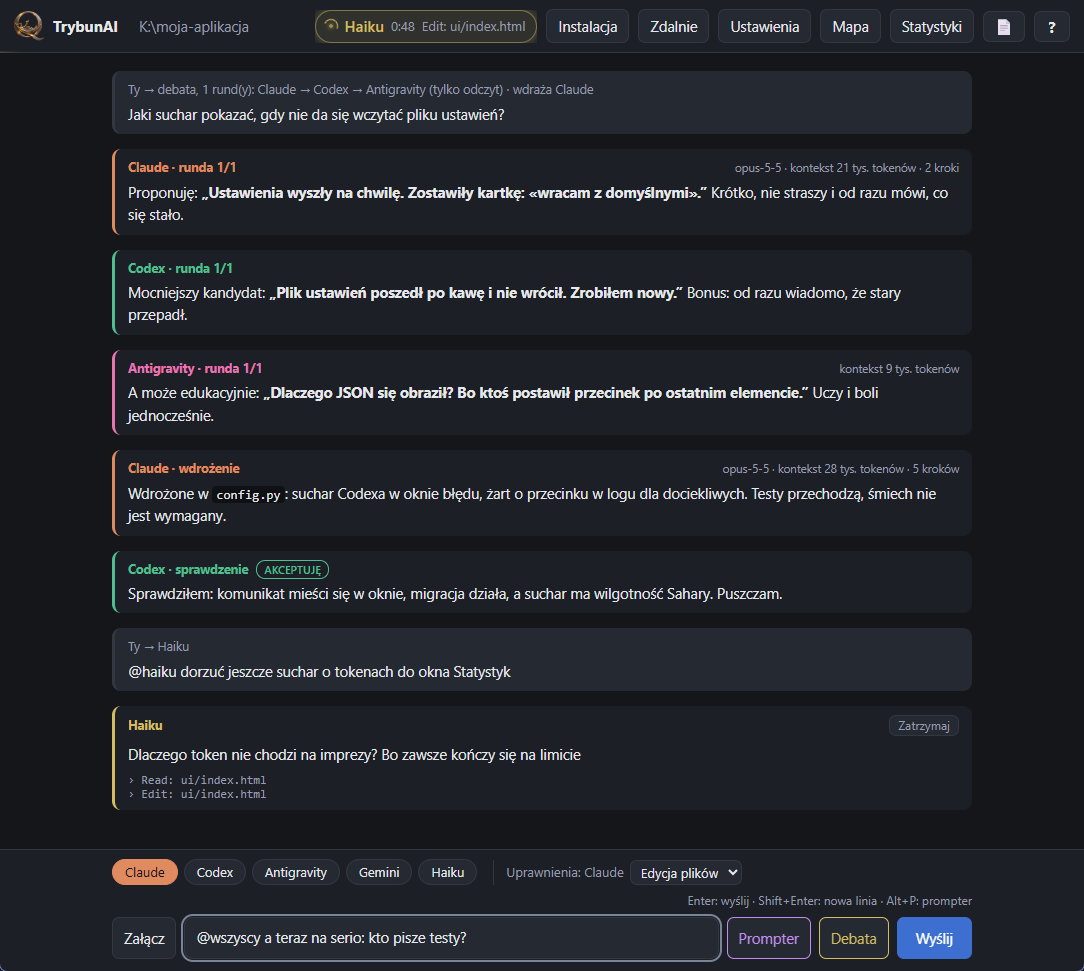
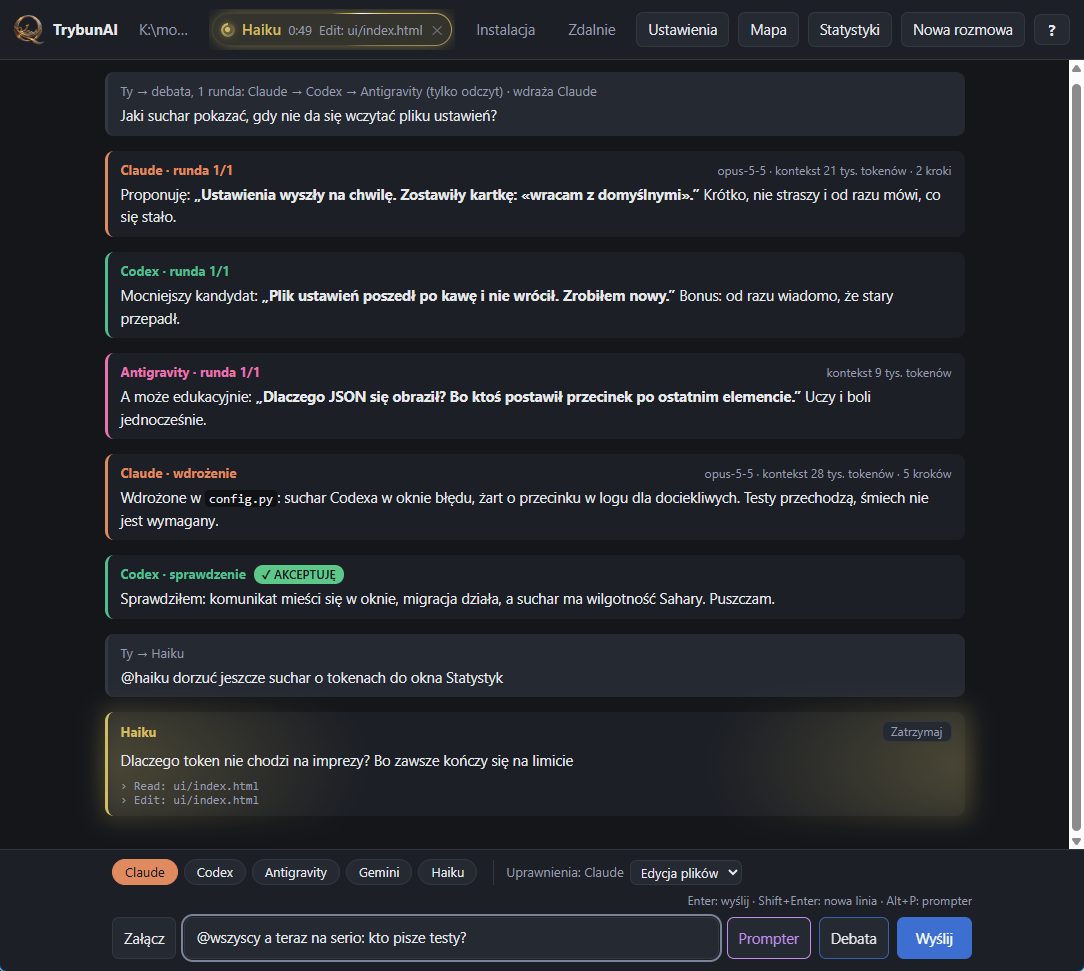
1.0.22: pigulka pracy wraca z animacja, werdykty z ikonami, porzadki w interfejsie

diff --git a/ui/index.html b/ui/index.html
@@ -6,7 +6,8 @@
 <title>TrybunAI</title>
 <style>
 :root{--bg:#14161a;--panel:#1c1f25;--panel2:#252932;--line:#323742;--text:#e6e8ec;--dim:#969cab;
---claude:#e08a5f;--codex:#4fbf8f;--gemini:#6ea2f5;--prompter:#c18df0;--haiku:#d3bd63;--antigravity:#e874b0;--danger:#e5676b}
+--claude:#e08a5f;--codex:#4fbf8f;--gemini:#6ea2f5;--prompter:#c18df0;--haiku:#d3bd63;--antigravity:#e874b0;--danger:#e5676b;
+--accent:#3d6fd1;--ok:#5cc98a;--warn:#e8a93a;--on-status:#14161a}
 *{box-sizing:border-box}
 html,body{height:100%;margin:0}
 body{background:var(--bg);color:var(--text);font:14.5px/1.55 "Segoe UI",system-ui,sans-serif;display:flex;flex-direction:column}
@@ -18,6 +19,45 @@ select,input[type=text]{background:var(--panel2);border:1px solid var(--line);bo
 :focus-visible{outline:2px solid #7a8499;outline-offset:1px}
 header{display:flex;gap:9px;align-items:center;padding:9px 14px;background:var(--panel);border-bottom:1px solid var(--line)}
 header b{font-size:15px}
+#working{display:flex;gap:7px;min-width:0;flex-shrink:1;overflow:hidden;padding:4px 3px}
+#working:empty{display:none}
+@property --orbit{syntax:"<angle>";inherits:false;initial-value:0deg}
+.wk{--c:var(--dim);position:relative;display:flex;align-items:center;flex-shrink:1;min-width:0;max-width:340px;
+  border-radius:999px;border:1.5px solid transparent;overflow:hidden;
+  background:linear-gradient(color-mix(in srgb,var(--c) 13%,var(--panel)),color-mix(in srgb,var(--c) 13%,var(--panel))) padding-box,
+    conic-gradient(from var(--orbit),color-mix(in srgb,var(--c) 22%,transparent),var(--c) 50deg,#fff 62deg,var(--c) 74deg,
+      color-mix(in srgb,var(--c) 22%,transparent) 140deg,color-mix(in srgb,var(--c) 22%,transparent)) border-box;
+  box-shadow:0 0 18px -6px var(--c);animation:wkin .5s cubic-bezier(.2,.9,.3,1.35) both,wkorbit 2.4s linear infinite}
+@keyframes wkorbit{to{--orbit:360deg}}
+@keyframes wkin{from{opacity:0;transform:translateY(-9px) scale(.8);filter:blur(5px);box-shadow:0 0 30px 6px var(--c)}}
+.wk.out{animation:wkout .3s ease-in forwards}
+@keyframes wkout{to{opacity:0;transform:scale(.8);filter:blur(4px)}}
+.wk::after{content:"";position:absolute;inset:0;pointer-events:none;transform:translateX(-110%);
+  background:linear-gradient(105deg,transparent 30%,color-mix(in srgb,var(--c) 32%,transparent) 50%,transparent 70%);
+  animation:wkscan 2.8s ease-in-out .6s infinite}
+@keyframes wkscan{to{transform:translateX(110%)}}
+.wk button{background:none;border:0;border-radius:999px;color:var(--text);font-size:13px}
+.wkgo{display:flex;align-items:center;gap:7px;min-width:0;padding:4px 4px 4px 8px;white-space:nowrap}
+.wkstop{flex:none;padding:3px 9px 3px 5px;color:var(--dim)!important;opacity:.7}
+.wkstop:hover{opacity:1;color:var(--danger)!important}
+.wk .orb{position:relative;width:14px;height:14px;flex:none}
+.wk .orb::before{content:"";position:absolute;inset:0;border-radius:50%;background:conic-gradient(transparent,var(--c));
+  -webkit-mask:radial-gradient(circle,transparent 4.4px,#000 5px);mask:radial-gradient(circle,transparent 4.4px,#000 5px);
+  animation:wkspin .8s linear infinite}
+.wk .orb::after{content:"";position:absolute;inset:4.5px;border-radius:50%;background:var(--c);box-shadow:0 0 8px 2px var(--c);
+  animation:wkpulse 1.2s ease-in-out infinite}
+@keyframes wkspin{to{transform:rotate(360deg)}}
+@keyframes wkpulse{50%{transform:scale(.55);opacity:.6}}
+.wk b{color:var(--c);font-weight:600}
+.wk .tm{font-variant-numeric:tabular-nums;color:var(--dim)}
+.wk .ac{color:var(--dim);overflow:hidden;text-overflow:ellipsis;min-width:0}
+header button{flex-shrink:0;white-space:nowrap}
+header #project{flex-shrink:1}
+#working.many .ac,#working.many .tm{display:none}
+#working.many .wkstop{display:none}
+#working.many .wk:hover .wkstop,#working.many .wk:focus-within .wkstop{display:block}
+#working.many .wk{flex-shrink:0}
+@media (prefers-reduced-motion:reduce){.wk,.wk::after,.wk .orb::before,.wk .orb::after{animation:none}}
 @keyframes bubbleGlow{from{opacity:.3;transform:scale(.995)}to{opacity:.85;transform:scale(1.012)}}
 #statsimport{color:var(--dim);font-size:13px;margin:-4px 0 10px}
 #statsimport:empty{display:none}
@@ -37,7 +77,7 @@ header img{height:30px;width:30px}
 @media (prefers-reduced-motion:reduce){.msg.working::before{animation:none;opacity:.55}}
 .msg.user{background:var(--panel2)}
 .msg.claude{border-left-color:var(--claude)}.msg.codex{border-left-color:var(--codex)}.msg.gemini{border-left-color:var(--gemini)}.msg.haiku{border-left-color:var(--haiku)}.msg.antigravity{border-left-color:var(--antigravity)}
-.who{display:flex;gap:8px;align-items:center;font-size:12.5px;color:var(--dim);margin-bottom:3px}
+.who{display:flex;gap:8px;align-items:center;font-size:13px;color:var(--dim);margin-bottom:3px}
 .who strong.claude{color:var(--claude)}.who strong.codex{color:var(--codex)}.who strong.gemini{color:var(--gemini)}.who strong.haiku{color:var(--haiku)}.who strong.antigravity{color:var(--antigravity)}
 .who .sp{flex:1}
 .who button{padding:0 8px;font-size:12px}
@@ -53,38 +93,40 @@ header img{height:30px;width:30px}
 .code pre code{padding:0;white-space:pre}
 .code button{position:absolute;top:5px;right:5px;padding:0 7px;font-size:12px}
 .tbl{overflow-x:auto}.body table{border-collapse:collapse;margin:.5em 0}.body td,.body th{border:1px solid var(--line);padding:3px 8px}
-.err{color:var(--danger);white-space:pre-wrap;font-size:13.5px}
-.note{color:var(--dim);font-size:12.5px;font-style:italic}
+.err{color:var(--danger);white-space:pre-wrap;font-size:14.5px}
+.note{color:var(--dim);font-size:13px;font-style:italic}
 .acts{font:12px Consolas,monospace;color:var(--dim);margin-top:5px}
-.usage{margin-left:auto;font-size:11.5px}.usage.big{color:var(--haiku)}
-.verdict{font-size:11px;font-weight:600;padding:0 7px;border-radius:9px;border:1px solid}
-.verdict.accept{color:var(--codex)}.verdict.remarks{color:var(--haiku)}.verdict.unverified{color:var(--dim)}
+.usage{margin-left:auto;font-size:12px}.usage.big{color:var(--haiku)}
+.verdict{font-size:12px;font-weight:600;padding:0 8px;border-radius:9px;color:var(--on-status)}
+.verdict.accept{background:var(--ok)}.verdict.remarks{background:var(--warn)}
+.verdict.unverified{background:var(--panel2);color:var(--dim);border:1px solid var(--line)}
 .needcard{margin-top:8px;padding:8px 11px;border:1px solid var(--prompter);border-radius:8px;font-size:13px}
 .needcard ul{margin:4px 0 7px;padding-left:20px;font:12px Consolas,monospace;color:var(--dim)}
-.needcard button{border-color:var(--prompter);color:var(--prompter);font-size:12.5px}
-.propcard{margin-top:10px;padding:10px 13px;border:1px solid color-mix(in srgb,var(--haiku) 55%,transparent);border-radius:9px;
-  background:color-mix(in srgb,var(--haiku) 6%,transparent)}
-.propcard h4{margin:0 0 6px;font-size:13.5px;font-weight:600}
+.needcard button{border-color:var(--prompter);color:var(--prompter);font-size:13px}
+.propcard{margin-top:10px;padding:10px 13px;border:1px solid color-mix(in srgb,var(--accent) 65%,transparent);border-radius:9px;
+  background:color-mix(in srgb,var(--accent) 7%,transparent)}
+.propcard h4{margin:0 0 6px;font-size:14.5px;font-weight:600}
 .propcard h4 span{color:var(--dim);font-weight:400}
 .propcard label{display:flex;gap:9px;align-items:flex-start;padding:4px 2px;cursor:pointer;border-radius:5px}
 .propcard label:hover{background:#ffffff08}
 .propcard input[type=checkbox]{margin-top:4px;flex:none}
 .propcard .no{color:var(--dim);font-size:12px;margin-left:4px}
-.propcard .sporne{color:var(--haiku);font-size:12px}
+.propcard .sporne{color:var(--warn);font-size:12px}
 .propcard textarea{width:100%;min-height:44px;margin:8px 0;resize:vertical;font:inherit;font-size:13px;
   background:var(--panel2);color:var(--text);border:1px solid var(--line);border-radius:7px;padding:6px 8px;box-sizing:border-box}
 .propcard .row{display:flex;gap:8px;align-items:center;flex-wrap:wrap}
-.propcard .go{background:#3d6fd1;border-color:#3d6fd1;color:#fff}
+.propcard .go{background:var(--accent);border-color:var(--accent);color:#fff}
 .propcard .go:disabled{opacity:.5}
 .propcard .links{margin-left:auto;font-size:12px;color:var(--dim)}
-.propcard .links a{color:var(--dim);cursor:pointer;text-decoration:underline}
+.linkbtn{background:none;border:0;padding:0;color:var(--dim);text-decoration:underline;font:inherit;cursor:pointer}
+.linkbtn:hover{color:var(--text)}
 .propcard ol{margin:4px 0 6px;padding-left:22px}
 .propcard li.off{color:var(--dim);text-decoration:line-through}
-.propcard .done{color:var(--dim);font-size:12.5px}
+.propcard .done{color:var(--dim);font-size:13px}
 .needcard small{color:var(--dim);margin-left:8px;font-size:12px}
-.ctxwarn{margin-top:7px;padding:6px 9px;border:1px solid var(--haiku);border-radius:7px;font-size:12.5px;color:var(--haiku);display:flex;gap:10px;align-items:center}
+.ctxwarn{margin-top:7px;padding:6px 9px;border:1px solid var(--haiku);border-radius:7px;font-size:13px;color:var(--haiku);display:flex;gap:10px;align-items:center}
 .ctxwarn button{font-size:12px;padding:1px 9px;white-space:nowrap}
-#debatebtn{border-color:var(--haiku);color:var(--haiku);height:42px}
+#debatebtn{border-color:color-mix(in srgb,var(--accent) 75%,var(--line));height:42px}
 #debdlg textarea{width:100%;box-sizing:border-box;min-height:70px;max-height:30vh;resize:vertical}
 #debdlg input[type=number]{width:60px}
 #debdlg select{min-width:150px}
@@ -114,16 +156,16 @@ footer{background:var(--panel);border-top:1px solid var(--line);padding:9px 14px
 #setuplog:empty{display:none}
 .gallery{display:flex;flex-wrap:wrap;gap:8px;margin-top:8px}
 .gallery img{max-width:min(100%,420px);max-height:320px;border-radius:7px;border:1px solid var(--line);cursor:zoom-in}
-.file{font-size:12.5px;color:var(--dim);margin-top:5px}
+.file{font-size:13px;color:var(--dim);margin-top:5px}
 #files{display:flex;flex-wrap:wrap;gap:6px;margin-bottom:7px}
 #files:empty{display:none}
-#files button{font-size:12.5px;padding:1px 9px}
+#files button{font-size:13px;padding:1px 9px}
 #attach{height:42px}
 #hint{color:var(--dim);font-size:12px;margin-left:auto}
 #row{display:flex;gap:8px;align-items:flex-end}
 textarea{flex:1;background:var(--panel2);border:1px solid var(--line);border-radius:9px;padding:8px 11px;resize:none;min-height:42px;max-height:40vh}
 #refine{border-color:var(--prompter);color:var(--prompter);height:42px}
-#sendbtn{background:#3d6fd1;border-color:#3d6fd1;color:#fff;height:42px;padding:0 18px}
+#sendbtn{background:var(--accent);border-color:var(--accent);color:#fff;height:42px;padding:0 18px}
 dialog{background:var(--panel);color:var(--text);border:1px solid var(--line);border-radius:11px;width:430px}
 dialog::backdrop{background:#0009}
 dialog h3{margin:0 0 12px}
@@ -139,19 +181,21 @@ dialog menu{display:flex;justify-content:flex-end;padding:0;margin:14px 0 0}
 .modelpick select{width:230px}.modelpick input{width:120px}
 .modelpick:has(input:not([hidden])) select{width:104px}
 #dlg{overflow-x:hidden}
-#modelsrefresh{font-size:12.5px;margin:2px 0}
+#modelsrefresh{font-size:13px;margin:2px 0}
 dialog label.rolerow{margin:-4px 0 12px;color:var(--dim);font-size:13px}
 dialog input.rolepick{width:340px}
 #aboutdlg{width:560px;max-height:90vh}
 #aboutdlg .abouthead{display:flex;gap:14px;align-items:center;margin-bottom:6px}
 #aboutdlg .abouthead h3{margin:0 0 3px}#aboutdlg .dim{color:var(--dim);font-size:13px}
 #aboutdlg a{color:var(--gemini)}
-#aboutdlg .help{font-size:13.5px;line-height:1.5}#aboutdlg .help h4{margin:12px 0 4px}
+#aboutdlg .help{font-size:14.5px;line-height:1.5}#aboutdlg .help h4{margin:12px 0 4px}
 #aboutdlg .help p{margin:5px 0}
 #updstate{margin:3px 0 6px}#updstate.new{color:var(--codex);font-weight:600}
-#updnotes{white-space:pre-wrap;font-size:12.5px;color:var(--dim);max-height:130px;overflow-y:auto;margin-bottom:7px}
+#updnotes{white-space:pre-wrap;font-size:13px;color:var(--dim);max-height:130px;overflow-y:auto;margin-bottom:7px}
 #updnotes:empty{display:none}
-#updgo{background:#3d6fd1;border-color:#3d6fd1;color:#fff}
+#updgo{background:var(--accent);border-color:var(--accent);color:#fff}
+button.ghost{background:transparent;border-color:transparent;color:var(--dim)}
+button.ghost:hover{color:var(--text);border-color:var(--line)}
 .iconbtn{min-width:36px;padding-left:9px;padding-right:9px;font-size:16px;line-height:1.2;position:relative}
 #aboutbtn{font-weight:700}
 #newdot{position:absolute;top:3px;right:3px;width:8px;height:8px;border-radius:50%;background:var(--codex)}
@@ -174,7 +218,7 @@ dialog input.rolepick{width:340px}
 #statschart .hit{fill:transparent;cursor:default}
 #statschart .hit:hover{fill:#ffffff0c}
 #statstip{position:absolute;pointer-events:none;background:var(--panel2);border:1px solid var(--line);border-radius:8px;
-  padding:7px 10px;font-size:12.5px;min-width:170px;box-shadow:0 6px 18px #0007;z-index:2}
+  padding:7px 10px;font-size:13px;min-width:170px;box-shadow:0 6px 18px #0007;z-index:2}
 #statstip .row{display:flex;align-items:center;gap:7px;justify-content:space-between}
 #statstip .row span:first-child{display:flex;align-items:center;gap:6px;color:var(--dim)}
 #statstip b{font-variant-numeric:tabular-nums;font-weight:600}
@@ -188,19 +232,19 @@ dialog input.rolepick{width:340px}
 #statstable td:first-child .sw{margin-right:7px;vertical-align:-1px}
 #statstable tr.sum td{font-weight:600;border-bottom:0}
 #statsempty{color:var(--dim);text-align:center;padding:40px 10px}
-#maplog{font-size:12.5px;color:var(--dim);max-height:20vh;overflow:auto}#maplog div{margin:2px 0}
+#maplog{font-size:13px;color:var(--dim);max-height:20vh;overflow:auto}#maplog div{margin:2px 0}
 #mapstate,#startstate{font-size:13px;margin:4px 0}
 dialog input#mapexclude{width:250px}
-#memory{width:100%;box-sizing:border-box;min-height:110px;max-height:35vh;resize:vertical;font-size:12.5px;margin-top:4px}
+#memory{width:100%;box-sizing:border-box;min-height:110px;max-height:35vh;resize:vertical;font-size:13px;margin-top:4px}
 #limits .acct{margin:8px 0 10px}
-#limits .acct b{font-size:14px}#limits .plan{color:var(--dim);font-size:13px;margin-left:6px}
-#limits .win{margin:5px 0 0;font-size:12.5px}
+#limits .acct b{font-size:14.5px}#limits .plan{color:var(--dim);font-size:13px;margin-left:6px}
+#limits .win{margin:5px 0 0;font-size:13px}
 #limits .win .top{display:flex;justify-content:space-between;gap:10px}
 #limits .barl{height:6px;background:var(--panel2);border-radius:3px;overflow:hidden;margin-top:3px}
 #limits .barl i{display:block;height:100%;background:var(--codex)}
 #limits .barl i.mid{background:var(--haiku)}#limits .barl i.high{background:var(--danger)}
 #limits small{margin-top:3px}
-#limitsrefresh{margin:2px 0 8px;font-size:12.5px}
+#limitsrefresh{margin:2px 0 8px;font-size:13px}
 #remotebtn.connecting{border-color:var(--haiku);color:var(--haiku)}
 #remotebtn.connected{border-color:var(--codex);color:var(--codex)}
 #toast{position:fixed;left:50%;top:58px;transform:translateX(-50%);background:#4b2326;border:1px solid var(--danger);padding:6px 14px;border-radius:8px;display:none;max-width:80%;z-index:3}
@@ -211,12 +255,13 @@ dialog input#mapexclude{width:250px}
   <img class="logo" alt="" width="30" height="30">
   <b>TrybunAI</b>
   <button id="project" title="Zmień folder projektu"></button>
-  <button id="setupbtn" title="Zainstaluj i zaloguj brakujące CLI">Instalacja</button>
-  <button id="remotebtn" title="Steruj Claude na tym komputerze z aplikacji Claude">Zdalnie</button>
+  <div id="working" aria-live="polite"></div>
+  <button id="setupbtn" class="ghost" title="Zainstaluj i zaloguj brakujące CLI">Instalacja</button>
+  <button id="remotebtn" class="ghost" title="Steruj Claude na tym komputerze z aplikacji Claude">Zdalnie</button>
   <button id="settings">Ustawienia</button>
   <button id="mapbtn" title="Mapa projektu: krótkie notatki o kodzie, od których modele zaczynają">Mapa</button>
   <button id="statsbtn" title="Zużycie tokenów w czasie, z podziałem na modele">Statystyki</button>
-  <button id="newchat" class="iconbtn" title="Nowa rozmowa (zapisuje stan do pamięci projektu)" aria-label="Nowa rozmowa">📄</button>
+  <button id="newchat" title="Archiwizuje czat i zaczyna nowy (najpierw zapisuje stan do pamięci projektu)">Nowa rozmowa</button>
   <button id="aboutbtn" class="iconbtn" title="O programie i aktualizacje" aria-label="O programie">?<span id="newdot" hidden></span></button>
 </header>
 <div id="toast" role="alert"></div>
@@ -435,12 +480,13 @@ function label(agent, turn) {
   const s = document.createElement("strong");
   s.className = agent; s.textContent = S.agents[agent].label + (turn ? " · " + turn : ""); return s;
 }
+const rounds = n => n === 1 ? "runda" : (n % 10 >= 2 && n % 10 <= 4 && !(n % 100 >= 12 && n % 100 <= 14)) ? "rundy" : "rund";
 function userBubble(msg) {
   const span = document.createElement("span");
   const names = msg.targets.map(t => S.agents[t].label).join(", ");
   const order = msg.targets.map(t => S.agents[t].label).join(" → ");
   span.textContent = msg.debate
-    ? `Ty → debata, ${msg.debate} rund(y): ${order} (tylko odczyt)` +
+    ? `Ty → debata, ${msg.debate} ${rounds(msg.debate)}: ${order} (tylko odczyt)` +
       (msg.implementer ? ` · wdraża ${S.agents[msg.implementer].label}` : "")
     : "Ty → " + names + (msg.grant ? ` (jednorazowo: ${MODE_TEXT[msg.grant]})` : "");
   const parts = bubble("user", span);
@@ -559,8 +605,8 @@ function proposalCard(msg) {
   row.append(go, skip);
   if (items.length > 1) {
     const links = document.createElement("span"); links.className = "links";
-    const all = document.createElement("a"); all.textContent = "zaznacz wszystkie";
-    const none = document.createElement("a"); none.textContent = "odznacz";
+    const all = document.createElement("button"); all.type = "button"; all.className = "linkbtn"; all.textContent = "zaznacz wszystkie";
+    const none = document.createElement("button"); none.type = "button"; none.className = "linkbtn"; none.textContent = "odznacz";
     all.onclick = () => { boxes.forEach(b => b.checked = true); refresh(); };
     none.onclick = () => { boxes.forEach(b => b.checked = false); refresh(); };
     links.append(all, " · ", none); row.append(links);
@@ -568,7 +614,7 @@ function proposalCard(msg) {
   c.append(note, row); refresh();
   return c;
 }
-const VERDICT_TEXT = {accept: "AKCEPTUJĘ", remarks: "UWAGI", unverified: "NIE MÓGŁ SPRAWDZIĆ"};
+const VERDICT_TEXT = {accept: "✓ AKCEPTUJĘ", remarks: "! UWAGI", unverified: "? NIE MÓGŁ SPRAWDZIĆ"};
 function addVerdict(parts, msg) {
   if (!msg.verdict) return;
   const s = document.createElement("span"); s.className = "verdict " + msg.verdict;
@@ -653,16 +699,49 @@ function drawChips() {
   }
 }
 
-// ---- model activity glow ---------------------------------------------------
-const working = new Map();  // run id -> agent id
-function workStart(key, agent, message) {
-  working.set(key, {agent, message});
+// ---- model activity: glow on the bubble, pill on the top bar ------------------
+const working = new Map();  // run id -> {agent, message, pill, started, time, act}
+let workTimer = null;
+const clock = sec => `${Math.floor(sec / 60)}:${String(sec % 60).padStart(2, "0")}`;
+function workStart(key, agent, message, {name, target, stop} = {}) {
   if (message) { message.style.setProperty("--work-color", `var(--${agent})`); message.classList.add("working"); }
+  const pill = document.createElement("div"); pill.className = "wk"; pill.style.setProperty("--c", `var(--${agent})`);
+  const go = document.createElement("button"); go.type = "button"; go.className = "wkgo";
+  go.title = `${name} pracuje. Kliknij, żeby przewinąć do odpowiedzi.`;
+  const orb = document.createElement("span"); orb.className = "orb";
+  const who = document.createElement("b"); who.textContent = name;
+  const time = document.createElement("span"); time.className = "tm"; time.textContent = "0:00";
+  const act = document.createElement("span"); act.className = "ac"; act.textContent = "myśli…";
+  go.append(orb, who, time, act);
+  go.onclick = () => (target || message)?.scrollIntoView({behavior: "smooth", block: "end"});
+  pill.append(go);
+  if (stop) {
+    const x = document.createElement("button"); x.type = "button"; x.className = "wkstop"; x.textContent = "✕";
+    x.title = `Zatrzymaj: ${name}`; x.setAttribute("aria-label", x.title); x.onclick = stop; pill.append(x);
+  }
+  $("working").append(pill);
+  working.set(key, {agent, message, pill, started: Date.now(), time, act, go, name});
+  drawWorking();
+}
+function workAct(key, text) {
+  const w = working.get(key); if (!w) return;
+  w.act.textContent = text; w.go.title = `${w.name}: ${text}`;
 }
 function workEnd(key) {
-  const run = working.get(key); if (!run) return;
+  const w = working.get(key); if (!w) return;
   working.delete(key);
-  run.message?.classList.remove("working");
+  w.message?.classList.remove("working");
+  w.pill.classList.add("out"); setTimeout(() => w.pill.remove(), 300);
+  drawWorking();
+}
+function drawWorking() {
+  $("working").classList.toggle("many", working.size > 1);
+  if (working.size && !workTimer) workTimer = setInterval(tickWorking, 1000);
+  if (!working.size && workTimer) { clearInterval(workTimer); workTimer = null; }
+  tickWorking();
+}
+function tickWorking() {
+  for (const w of working.values()) w.time.textContent = clock(Math.floor((Date.now() - w.started) / 1000));
 }
 
 window.onEvents = events => {
@@ -678,14 +757,16 @@ window.onEvents = events => {
       const acts = document.createElement("div"); acts.className = "acts";
       parts.b.append(text, acts);
       runs.set(e.id, {parts, st, text, acts, buf: ""});
-      workStart(e.id, e.agent, parts.m);
+      workStart(e.id, e.agent, parts.m, {name: S.agents[e.agent].label, stop: () => api.stop(e.agent)});
     } else if (e.t === "delta") {
       const r = runs.get(e.id); if (!r) continue;
       r.buf += e.text; r.text.innerHTML = markdown(r.buf);
       r.text.classList.remove("typing");
+      workAct(e.id, "pisze odpowiedź…");
     } else if (e.t === "activity") {
       const r = runs.get(e.id); if (!r) continue;
       addLine(r.acts, "", "› " + e.text);
+      workAct(e.id, e.text);
       while (r.acts.children.length > 6) r.acts.firstChild.remove();
     } else if (e.t === "end") {
       const r = runs.get(e.id); if (!r) continue;
@@ -709,6 +790,7 @@ window.onEvents = events => {
       refreshSetup();
     } else if (e.t === "p_start") {
       setPrompter(true, `Prompter (${S.agents[e.engine].label}) pracuje…`);
+      workStart("prompter", "prompter", null, {name: "Prompter", target: $("input"), stop: () => api.stop("prompter")});
     } else if (e.t === "p_end") {
       workEnd("prompter");
       if (e.ok) {
@@ -1022,7 +1104,7 @@ function showLogo() {
 async function reload() { S = await api.snapshot(); render(); drawRemote(); }
 function drawRemote() {
   const r = S.remote, on = r.state !== "off";
-  $("remotebtn").className = r.state;
+  $("remotebtn").className = "ghost " + (r.state || "");
   $("remotebtn").textContent = r.state === "connected" ? "Zdalnie: wł." : r.state === "connecting" ? "Zdalnie…" : "Zdalnie";
   $("remotestate").textContent = {off: "Wyłączone.", connecting: "Łączenie…", connected: "Połączono. Otwórz aplikację Claude i napisz."}[r.state];
   $("remoteerr").textContent = r.error || "";

diff --git a/trybun/__init__.py b/trybun/__init__.py
@@ -1,2 +1,2 @@
 # MAJOR.MINOR change only when the owner says so; PATCH +1 on every code change (see CLAUDE.md).
-__version__ = "1.0.21"
+__version__ = "1.0.22"

diff --git a/CHANGELOG.md b/CHANGELOG.md
@@ -1,5 +1,15 @@
 # Zmiany
 
+## 1.0.22 — 2026-11-09
+- Wraca pigułka „pracuje” na górnym pasku, obok poświaty dymka: kolor modelu, czas pracy, bieżąca
+  czynność, światło okrążające ramkę, wejście z rozbłyskiem i wygaszenie na końcu. Kliknięcie przewija
+  do odpowiedzi, „✕” zatrzymuje model. Przy kilku modelach naraz pigułki są krótsze.
+- Pigułka i „zaznacz wszystkie / odznacz” w karcie wyboru to prawdziwe przyciski (działają z klawiatury).
+- Werdykty mają własne kolory i ikony (✓ akceptuję, ! uwagi, ? nie mógł sprawdzić), osobne od kolorów
+  modeli. Przycisk Debata i karta wyboru są w neutralnym kolorze akcentu zamiast żółtego Haiku.
+- Górny pasek: Instalacja i Zdalnie wyciszone (rzadko używane), „Nowa rozmowa” opisana słowami zamiast 📄.
+- Porządki: kolor akcentu w jednej zmiennej, mniej rozmiarów czcionek, „1 runda / 2 rundy / 5 rund”.
+
 ## 1.0.21 — 2026-11-09
 - Stop kliknięty tuż po zakończeniu odpowiedzi nie zabija już następnej odpowiedzi tego modelu.
 - Uszkodzony `chat.json` nie blokuje startu i nie kasuje historii: plik trafia do `chat-uszkodzony-*.json`, a czat startuje pusty.
